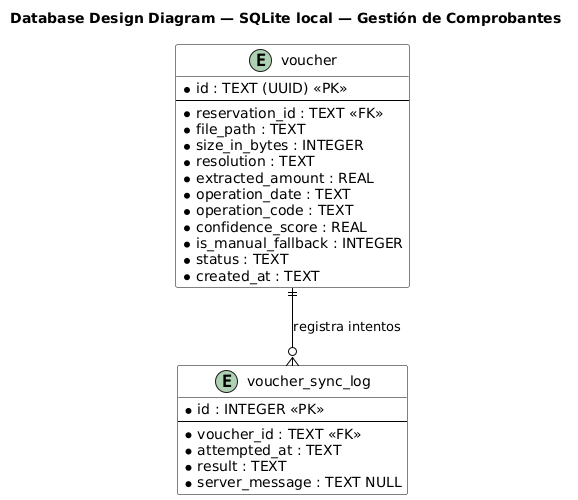
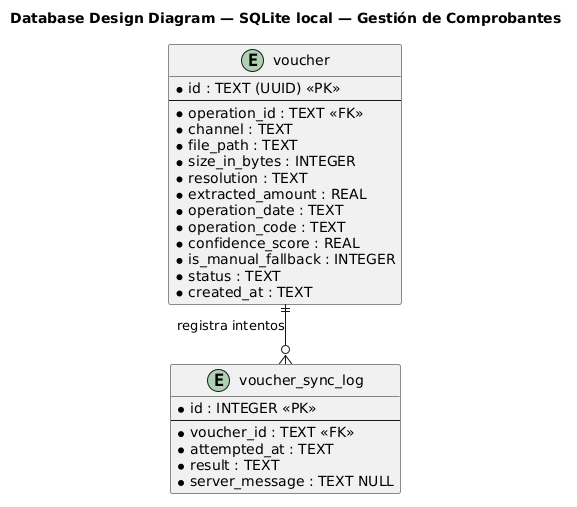
docs(chapter-02): resync Gestión de Comprobantes field-channel diagrams with operationId/channel rename and close the onboarding loop so Control Financiero y Documental consumes Lote publicado en catálogo

Changed region(s): [[0.0312, 0.03, 0.9671, 0.99]]

diff --git a/docs/Chapter-02.md b/docs/Chapter-02.md
@@ -1528,7 +1528,7 @@ Para el Agente Comercial de Campo se identificaron dos Impacts. El primero, **ga
 
 Para el Comprador e Inversionista se identificaron otros dos Impacts. El primero, **otorgar total autonomía para cotizar y separar lotes**, se traduce en los Deliverables de un simulador interactivo de financiamiento y un módulo web de reserva con carga de vouchers, que dan origen a los User Stories de filtrar lotes en un mapa interactivo y simular su propio financiamiento sin intermediarios, y de solicitar la separación de un lote adjuntando el comprobante digitalmente desde el portal. El segundo, **generar transparencia y seguridad legal sobre su inversión**, se traduce en los Deliverables de un dashboard de estado de cuenta consolidado y un repositorio documental con firma electrónica, que dan origen a los User Stories de visualizar el estado de cuenta con cuotas pagadas y pendientes, y de acceder a un repositorio digital con sus contratos y constancias de no adeudo para tener seguridad jurídica sobre su lote.
 
-![mpactMappingCompradoreInversionista.png](../assets/cap2/mpactMappingCompradoreInversionista.png)
+![ImpactMappingCompradoreInversionista.png](../assets/cap2/ImpactMappingCompradoreInversionista.png)
 
 ### 2.4.3. Product Backlog
 El Product Backlog traduce las necesidades de agentes comerciales de campo y compradores e inversionistas en una lista de trabajo ordenada por valor para el negocio. En el caso de inmoNode, el mayor valor se concentra inicialmente en reducir la pérdida de oportunidades comerciales y la dependencia del papel durante la prospección, separación de lotes y captura de comprobantes en zonas con conectividad limitada.
@@ -2763,8 +2763,8 @@ Control Financiero y Documental es el contexto que sostiene la trazabilidad post
     <tr>
       <td><b>Lot</b></td>
       <td>Aggregate Root</td>
-      <td>Inventario canónico de un lote y su estado de disponibilidad; única autoridad sobre bloqueos y ventas. Es consultado y bloqueado en el mismo proceso por Cotización y Separación Digital.</td>
-      <td>id, projectId, code, area, price, status, currentReservationId, blockedUntil. block(reservationId, holderId, channel, validityMinutes), releaseExpiredBlock(), moveToPendingVerification(), markReserved(), markSold(), isAvailable().</td>
+      <td>Inventario canónico de un lote y su estado de disponibilidad; única autoridad sobre bloqueos y ventas. Es consultado y bloqueado en el mismo proceso por Cotización y Separación Digital. Se da de alta a partir del evento publicado por Catálogo Inmobiliario, de donde hereda su ficha técnica.</td>
+      <td>id, projectId, code, area, price, polygon, status, currentReservationId, blockedUntil. <code>onboard(projectId, code, area, price, polygon)</code> [factoría estática, a partir del evento de Catálogo Inmobiliario], <code>block(reservationId, holderId, channel, validityMinutes)</code>, releaseExpiredBlock(), moveToPendingVerification(), markReserved(), markSold(), isAvailable().</td>
     </tr>
     <tr>
       <td><b>Reservation</b></td>
@@ -2833,10 +2833,10 @@ Control Financiero y Documental es el contexto que sostiene la trazabilidad post
       <td>findById, findAvailableByFilters, existsBySourceEventId, findByBuyerId, save.</td>
     </tr>
     <tr>
-      <td><b>BlockLotCommand,<br>SyncFieldRecordsCommand,<br>VerifyPaymentCommand,<br>RejectPaymentCommand,<br>IssueContractCommand,<br>RegisterBuyerAcknowledgmentCommand,<br>RegisterInstallmentPaymentCommand,<br>MarkOverdueInstallmentsCommand</b></td>
+      <td><b>OnboardLotFromCatalogCommand,<br>BlockLotCommand,<br>SyncFieldRecordsCommand,<br>VerifyPaymentCommand,<br>RejectPaymentCommand,<br>IssueContractCommand,<br>RegisterBuyerAcknowledgmentCommand,<br>RegisterInstallmentPaymentCommand,<br>MarkOverdueInstallmentsCommand</b></td>
       <td>Command</td>
-      <td>Intenciones de cambio sobre el inventario, la sincronización de campo, la verificación financiera, la emisión contractual y el seguimiento de pagos.</td>
-      <td>Los datos necesarios por comando: lotId y vigencia; lote de registros pendientes; evidenceId y decisión; documentUrl y anexos; timestamp; installmentNumber y monto; fecha de corte.</td>
+      <td>Intenciones de cambio sobre el inventario (su alta y su disponibilidad), la sincronización de campo, la verificación financiera, la emisión contractual y el seguimiento de pagos.</td>
+      <td>Los datos necesarios por comando: projectId, code, area, price y polygon; lotId y vigencia; lote de registros pendientes; evidenceId y decisión; documentUrl y anexos; timestamp; installmentNumber y monto; fecha de corte.</td>
     </tr>
     <tr>
       <td><b>FindLotsQuery,<br>GetLotAvailabilityQuery,<br>GetPendingVerificationsQuery,<br>GetContractQuery,<br>GetAccountStatementQuery,<br>GetPaymentHistoryQuery</b></td>
@@ -2945,9 +2945,9 @@ El endpoint `GET /api/v1/field-sync/catalog` es distinto de `GET /api/v1/project
       <td>handle(RegisterInstallmentPaymentCommand): registra el pago de una cuota y publica InstallmentPaidEvent, marcando LotFullyPaidEvent cuando corresponde. handle(MarkOverdueInstallmentsCommand): job diario que evalúa la fecha de corte y publica InstallmentOverdueEvent. Resuelve GetAccountStatementQuery y GetPaymentHistoryQuery.</td>
     </tr>
     <tr>
-      <td><b>LotQueryServiceImpl,<br>LotBlockingServiceImpl</b></td>
+      <td><b>LotQueryServiceImpl,<br>LotBlockingServiceImpl,<br>LotCatalogSyncServiceImpl</b></td>
       <td>Query/Command Service</td>
-      <td>Implementan LotAvailabilityPort: resuelven FindLotsQuery y GetLotAvailabilityQuery, y ejecutan BlockLotCommand invocando Lot.block en el mismo proceso que invoca Cotización y Separación Digital.</td>
+      <td>Los dos primeros implementan LotAvailabilityPort: resuelven FindLotsQuery y GetLotAvailabilityQuery, y ejecutan BlockLotCommand invocando Lot.block en el mismo proceso que invoca Cotización y Separación Digital. LotCatalogSyncServiceImpl maneja OnboardLotFromCatalogCommand: antes de invocar Lot.onboard, verifica con LotRepository.findById que el lote no exista todavía, para tolerar que el evento se reciba más de una vez sin duplicar el inventario.</td>
     </tr>
   </tbody>
 </table>
@@ -2980,6 +2980,11 @@ El endpoint `GET /api/v1/field-sync/catalog` es distinto de `GET /api/v1/project
       <td>Traduce el evento de comprobante recibido, publicado por Gestión de Comprobantes, en una PaymentEvidence asociada a la Reservation correspondiente.</td>
     </tr>
     <tr>
+      <td><b>LotPublishedToCatalogEventHandlerImpl</b></td>
+      <td>Anti-corruption Layer (Event Handler)</td>
+      <td>Escucha, en el mismo proceso, el evento LotPublishedToCatalogEvent publicado por Catálogo Inmobiliario, y lo traduce en un OnboardLotFromCatalogCommand que LotCatalogSyncServiceImpl ejecuta.</td>
+    </tr>
+    <tr>
       <td><b>PaymentGatewayServiceImpl</b></td>
       <td>Adaptador ACL</td>
       <td>Confirma pagos contra la pasarela Niubiz y traduce su respuesta a conceptos propios de verificación financiera.</td>
@@ -3001,7 +3006,7 @@ El endpoint `GET /api/v1/field-sync/catalog` es distinto de `GET /api/v1/project
 
 ![Diagrama de componentes de Control Financiero y Documental](../assets/cap2/C4-Components-Control-Financiero-y-Documental.png)
 
-El módulo recibe tres flujos de entrada: la sincronización de campo desde la aplicación móvil, las decisiones del back-office sobre verificación y emisión, y las consultas de autoservicio del Comprador e Inversionista. `PaymentEvidenceReceivedEventHandler` consume, como capa anticorrupción, el evento que publica Gestión de Comprobantes, mientras que `LotAvailabilityPort` expone en el mismo proceso el Open Host Service que consume Cotización y Separación Digital para leer disponibilidad y bloquear un lote, evitando así cualquier duplicidad en la autoridad sobre el inventario. Los cuatro Command/Query Services dependen de los Domain Services (`FinancialVerificationService`, `LotConflictResolutionService`) y persisten a través de los repositorios JPA sobre el esquema `financial_document_control`. Hacia afuera, tres adaptadores traducen la integración con la pasarela de pagos (Niubiz), el proveedor de firma electrónica y el servicio de correo (Amazon SES).
+El módulo recibe cuatro flujos de entrada: el alta de inventario publicada por Catálogo Inmobiliario, la sincronización de campo desde la aplicación móvil, las decisiones del back-office sobre verificación y emisión, y las consultas de autoservicio del Comprador e Inversionista. `LotPublishedToCatalogEventHandlerImpl` consume, como capa anticorrupción, el evento que publica Catálogo Inmobiliario, dando de alta el lote antes de que cualquier otro flujo pueda bloquearlo o venderlo. `PaymentEvidenceReceivedEventHandler` consume, también como capa anticorrupción, el evento que publica Gestión de Comprobantes, mientras que `LotAvailabilityPort` expone en el mismo proceso el Open Host Service que consume Cotización y Separación Digital para leer disponibilidad y bloquear un lote, evitando así cualquier duplicidad en la autoridad sobre el inventario. Los cuatro Command/Query Services dependen de los Domain Services (`FinancialVerificationService`, `LotConflictResolutionService`) y persisten a través de los repositorios JPA sobre el esquema `financial_document_control`. Hacia afuera, tres adaptadores traducen la integración con la pasarela de pagos (Niubiz), el proveedor de firma electrónica y el servicio de correo (Amazon SES).
 
 #### 2.6.4.6. Bounded Context Software Architecture Code Level Diagrams
 
@@ -3009,13 +3014,13 @@ El módulo recibe tres flujos de entrada: la sincronización de campo desde la a
 
 ![Diagrama de clases del Domain Layer de Control Financiero y Documental](../assets/cap2/UML-Domain-Control-Financiero-y-Documental.png)
 
-El diagrama ubica a Lot como el agregado del cual dependen, por identificador, los demás agregados del contexto: Reservation referencia a Lot mediante lotId, Contract a Reservation mediante reservationId, y AccountStatement a Contract mediante contractId, conservando cada uno su propio ciclo de vida. PaymentEvidence vive dentro de Reservation e Installment dentro de AccountStatement, ambas como entidades hijas sin repositorio propio. LotConflictResolutionService es el único componente del dominio con autoridad para resolver conflictos sobre Lot, mientras que FinancialVerificationService contrasta cada PaymentEvidence antes de habilitar su aprobación, apoyado en el value object VerificationDecision.
+El diagrama ubica a Lot como el agregado del cual dependen, por identificador, los demás agregados del contexto: Reservation referencia a Lot mediante lotId, Contract a Reservation mediante reservationId, y AccountStatement a Contract mediante contractId, conservando cada uno su propio ciclo de vida. Lot nace mediante `onboard()`, invocado por la capa anticorrupción que traduce el evento de Catálogo Inmobiliario, y nunca mediante un constructor directo. PaymentEvidence vive dentro de Reservation e Installment dentro de AccountStatement, ambas como entidades hijas sin repositorio propio. LotConflictResolutionService es el único componente del dominio con autoridad para resolver conflictos sobre Lot, mientras que FinancialVerificationService contrasta cada PaymentEvidence antes de habilitar su aprobación, apoyado en el value object VerificationDecision.
 
 ##### 2.6.4.6.2. Bounded Context Database Design Diagram
 
 ![Diagrama de base de datos de Control Financiero y Documental](../assets/cap2/DB-Control-Financiero-y-Documental.png)
 
-El esquema `financial_document_control` tiene seis tablas. `lots` guarda el inventario canónico con su estado y el `current_reservation_id` que apunta al bloqueo vigente; `reservations` referencia a `lots` y guarda el canal de origen, el `requester_id` y el `source_event_id` como clave única para garantizar la idempotencia de la sincronización desde campo. `payment_evidences` referencia a `reservations` y conserva el resultado de la revisión administrativa. `contracts` tiene clave foránea única hacia `reservations` (relación uno a uno), y `account_statements` tiene, a su vez, clave foránea única hacia `contracts`. `installments` guarda una fila por cuota real, con clave foránea a `account_statements`.
+El esquema `financial_document_control` tiene seis tablas. `lots` guarda el inventario canónico con su estado, la ficha técnica heredada de Catálogo Inmobiliario (`area`, `price`, `polygon`) y el `current_reservation_id` que apunta al bloqueo vigente; `reservations` referencia a `lots` y guarda el canal de origen, el `requester_id` y el `source_event_id` como clave única para garantizar la idempotencia de la sincronización desde campo. `payment_evidences` referencia a `reservations` y conserva el resultado de la revisión administrativa. `contracts` tiene clave foránea única hacia `reservations` (relación uno a uno), y `account_statements` tiene, a su vez, clave foránea única hacia `contracts`. `installments` guarda una fila por cuota real, con clave foránea a `account_statements`.
 
 ### 2.6.5. Bounded Context: Catálogo Inmobiliario
 
